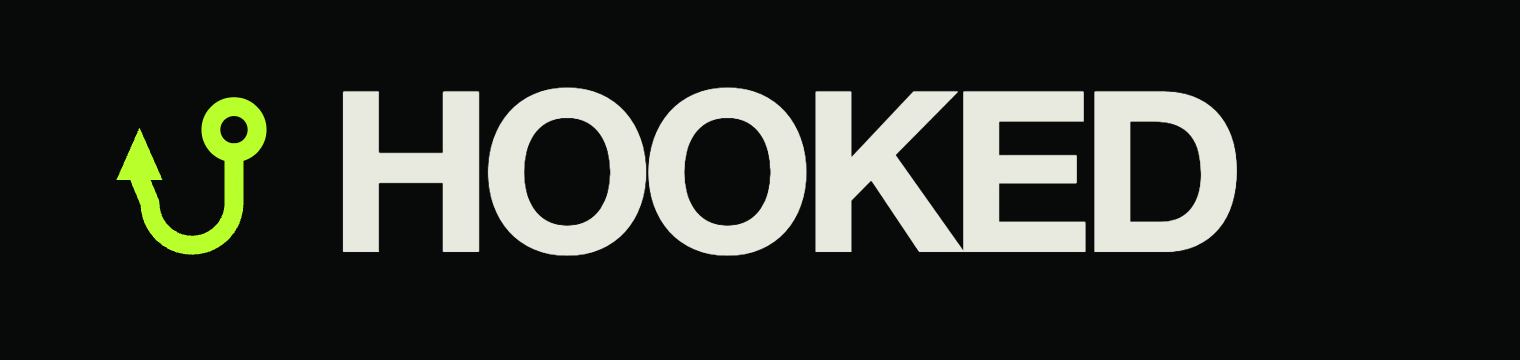
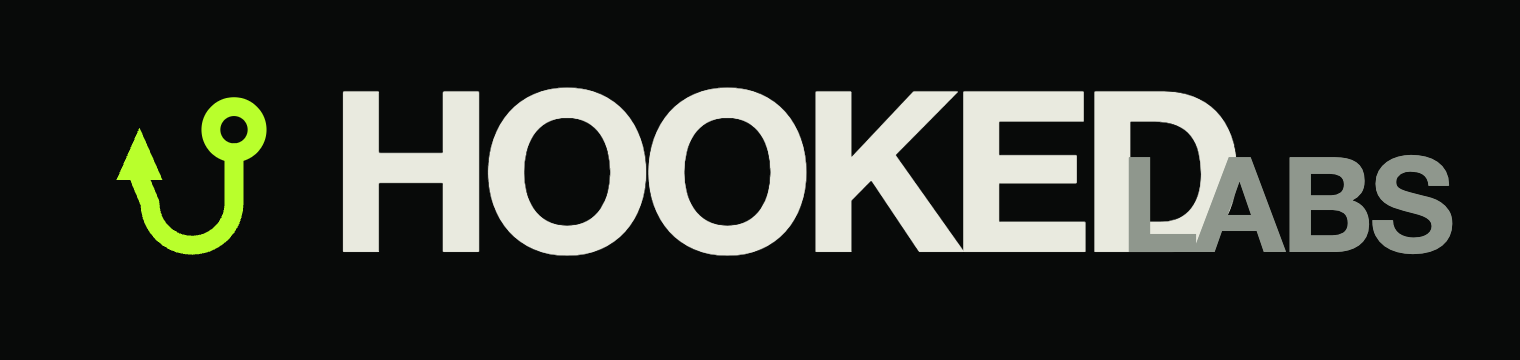
brand: the site is HOOKED LABS
LABS was only ever a URL compromise (hooked.vercel.app and gethooked were
taken). It is now the actual name: nav wordmark, page titles, footers,
social cards and the wordmark asset. LABS is set back in machine gray so
HOOKED still carries the mark at small sizes, and GET HOOKED. stays the line.

Changed region(s): [[0.7421, 0.4278, 0.9586, 0.7028]]

diff --git a/web/index.html b/web/index.html
@@ -4,25 +4,25 @@
   <meta charset="UTF-8" />
   <meta name="viewport" content="width=device-width, initial-scale=1.0" />
   <meta name="theme-color" content="#080a09" />
-  <title>HOOKED — Experimental Markets</title>
-  <meta name="description" content="HOOKED is a lab for mechanism-driven launches on Robinhood Chain. Launch #001: HATCH." />
+  <title>HOOKED LABS — Experimental Markets</title>
+  <meta name="description" content="HOOKED LABS is a lab for mechanism-driven launches on Robinhood Chain. Launch #001: HATCH." />
   <link rel="icon" type="image/svg+xml" href="./assets/favicon.svg" />
   <link rel="apple-touch-icon" href="./assets/hooked-icon-dark.svg" />
   <meta property="og:type" content="website" />
-  <meta property="og:title" content="HOOKED — Tokens with a mechanism inside." />
-  <meta property="og:description" content="HOOKED is a lab for mechanism-driven launches on Robinhood Chain. Launch #001: HATCH." />
+  <meta property="og:title" content="HOOKED LABS — Tokens with a mechanism inside." />
+  <meta property="og:description" content="HOOKED LABS is a lab for mechanism-driven launches on Robinhood Chain. Launch #001: HATCH." />
   <meta property="og:image" content="./assets/social/og-hooked.svg" />
   <meta name="twitter:card" content="summary_large_image" />
-  <meta name="twitter:title" content="HOOKED — Tokens with a mechanism inside." />
-  <meta name="twitter:description" content="HOOKED is a lab for mechanism-driven launches on Robinhood Chain. Launch #001: HATCH." />
+  <meta name="twitter:title" content="HOOKED LABS — Tokens with a mechanism inside." />
+  <meta name="twitter:description" content="HOOKED LABS is a lab for mechanism-driven launches on Robinhood Chain. Launch #001: HATCH." />
   <meta name="twitter:image" content="./assets/social/og-hooked.svg" />
   <link rel="stylesheet" href="./styles.css" />
 </head>
 <body data-page="home">
   <div class="noise"></div>
   <header class="nav shell">
-    <a href="./" class="brand" aria-label="HOOKED home">
-      <img class="hook-mark" src="./assets/hook-mark.svg" alt="" width="26" height="30" /><span>HOOKED</span>
+    <a href="./" class="brand" aria-label="HOOKED LABS home">
+      <img class="hook-mark" src="./assets/hook-mark.svg" alt="" width="26" height="30" /><span>HOOKED<em>LABS</em></span>
     </a>
     <nav><a href="./hatch.html">001 / HATCH</a><a href="#manifesto">MANIFESTO</a></nav>
   </header>
@@ -66,13 +66,13 @@
     </section>
 
     <section class="manifesto shell" id="manifesto">
-      <div class="section-head"><span>THE RULE</span><span>HOOKED / 2026</span></div>
+      <div class="section-head"><span>THE RULE</span><span>HOOKED LABS / 2026</span></div>
       <blockquote>DON'T LAUNCH<br>A TOKEN.<br><em>LAUNCH A BEHAVIOR.</em></blockquote>
-      <p>HOOKED releases small onchain experiments whose economics are visible, mechanical and weird enough to explain in one sentence.</p>
+      <p>HOOKED LABS releases small onchain experiments whose economics are visible, mechanical and weird enough to explain in one sentence.</p>
     </section>
   </main>
 
-  <footer class="shell"><span>HOOKED // ROBINHOOD CHAIN</span><span>EXPERIMENTS ARE RISKY. MECHANICS ARE NOT PROMISES.</span></footer>
+  <footer class="shell"><span>HOOKED LABS // ROBINHOOD CHAIN</span><span>EXPERIMENTS ARE RISKY. MECHANICS ARE NOT PROMISES.</span></footer>
   <script src="./app.js"></script>
 </body>
 </html>

diff --git a/web/hatch.html b/web/hatch.html
@@ -4,7 +4,7 @@
   <meta charset="UTF-8" />
   <meta name="viewport" content="width=device-width, initial-scale=1.0" />
   <meta name="theme-color" content="#080a09" />
-  <title>HATCH — HOOKED 001</title>
+  <title>HATCH — HOOKED LABS 001</title>
   <meta name="description" content="HATCH: every trade feeds the egg NVIDIA." />
   <link rel="icon" type="image/svg+xml" href="./assets/favicon.svg" />
   <link rel="apple-touch-icon" href="./assets/hooked-icon-dark.svg" />
@@ -21,7 +21,7 @@
 <body data-page="hatch">
   <div class="noise"></div>
   <header class="nav shell">
-    <a href="./" class="brand"><img class="hook-mark" src="./assets/hook-mark.svg" alt="" width="26" height="30" /><span>HOOKED</span></a>
+    <a href="./" class="brand"><img class="hook-mark" src="./assets/hook-mark.svg" alt="" width="26" height="30" /><span>HOOKED<em>LABS</em></span></a>
     <nav><a href="./">ALL EXPERIMENTS</a><a href="#mechanism">MECHANISM</a></nav>
   </header>
 
@@ -135,7 +135,7 @@
       <p>NVDA in the egg can only ever leave one way: a permissionless crack that buys HATCH and burns it, paying the caller 5%. There is no withdrawal, rescue or upgrade path, and no admin. Nothing here is financial advice.</p>
     </section>
 
-  <footer class="shell"><span>HOOKED 001 // HATCH</span><span>THE EGG DOES NOT PROMISE RETURNS. IT JUST GETS FED, AND CRACKED.</span></footer>
+  <footer class="shell"><span>HOOKED LABS 001 // HATCH</span><span>THE EGG DOES NOT PROMISE RETURNS. IT JUST GETS FED, AND CRACKED.</span></footer>
   <script src="./config.js"></script>
   <script src="./app.js"></script>
 </body>

diff --git a/web/styles.css b/web/styles.css
@@ -49,3 +49,8 @@
   width:min(38vw,520px);height:auto;opacity:.16;pointer-events:none;z-index:0}
 .hero>*:not(.hero-hook){position:relative;z-index:1}
 @media(max-width:850px){.hero-hook{display:none}}
+
+/* --- wordmark: HOOKED LABS --------------------------------------------
+   LABS sits back so HOOKED still carries the mark at small sizes. */
+.brand em{font-style:normal;font-weight:800;color:var(--muted);letter-spacing:-.02em;margin-left:.34em;font-size:.62em;vertical-align:.12em}
+.brand:hover em{color:var(--acid)}

diff --git a/brand/generate-assets.py b/brand/generate-assets.py
@@ -69,6 +69,8 @@ def wordmark(bg, textcol, hookcol, transparent=False):
   {hook_centred(96, 88, 1.05, hookcol)}
   <text x="164" y="126" font-family="Helvetica Neue, Helvetica, Arial, sans-serif" font-weight="900"
         font-size="112" letter-spacing="-7" fill="{textcol}">HOOKED</text>
+  <text x="560" y="126" font-family="Helvetica Neue, Helvetica, Arial, sans-serif" font-weight="800"
+        font-size="66" letter-spacing="-2" fill="{GRAY}">LABS</text>
 </svg>'''
 
 write("hooked-wordmark-dark.svg", wordmark(CARBON, BONE, ACID))
@@ -186,7 +188,7 @@ write("social/x-banner.svg", f'''
   {hook_centred(178, 250, 2.1, ACID)}
   <text x="290" y="250" font-family="Helvetica Neue, Helvetica, Arial, sans-serif" font-weight="900" font-size="132" letter-spacing="-9" fill="{BONE}">GET HOOKED.</text>
   <text x="296" y="308" font-family="monospace" font-weight="700" font-size="26" letter-spacing="7" fill="{ACID}">TOKENS WITH A MECHANISM INSIDE.</text>
-  <text x="296" y="356" font-family="monospace" font-weight="700" font-size="19" letter-spacing="4" fill="{GRAY}">ROBINHOOD CHAIN / EXPERIMENT 001: HATCH</text>
+  <text x="296" y="356" font-family="monospace" font-weight="700" font-size="19" letter-spacing="4" fill="{GRAY}">HOOKED LABS / ROBINHOOD CHAIN / EXPERIMENT 001: HATCH</text>
   <rect x="0" y="484" width="1500" height="16" fill="{ACID}"/>
 </svg>''')
 
@@ -215,6 +217,6 @@ def og(title_lines, sub, kicker, egg=False):
   <rect x="0" y="614" width="1200" height="16" fill="{ACID}"/>
 </svg>'''
 
-write("social/og-hooked.svg", og(["GET", "HOOKED."], "TOKENS WITH A MECHANISM INSIDE.", "HOOKED / ROBINHOOD CHAIN"))
-write("social/og-hatch.svg", og(["FEED THE", "EGG."], "NOBODY KNOWS WHAT'S INSIDE.", "HOOKED 001 / HATCH / NVDA", egg=True))
+write("social/og-hooked.svg", og(["GET", "HOOKED."], "TOKENS WITH A MECHANISM INSIDE.", "HOOKED LABS / ROBINHOOD CHAIN"))
+write("social/og-hatch.svg", og(["FEED THE", "EGG."], "NOBODY KNOWS WHAT'S INSIDE.", "HOOKED LABS 001 / HATCH / NVDA", egg=True))
 print()

diff --git a/README.md b/README.md
@@ -1,6 +1,6 @@
-# HOOKED — HATCH #001
+# HOOKED LABS — HATCH #001
 
-HOOKED is an experimental launch gallery for mechanism-driven meme coins on Robinhood Chain.
+HOOKED LABS is an experimental launch gallery for mechanism-driven meme coins on Robinhood Chain.
 
 Launch #001 is **HATCH**: a PONS token paired with tokenized NVIDIA (NVDA). PONS creator fees are routed to a dedicated `HatchFeeRouter`, which claims NVDA from the PONS V2 fee escrow and splits it:
 
